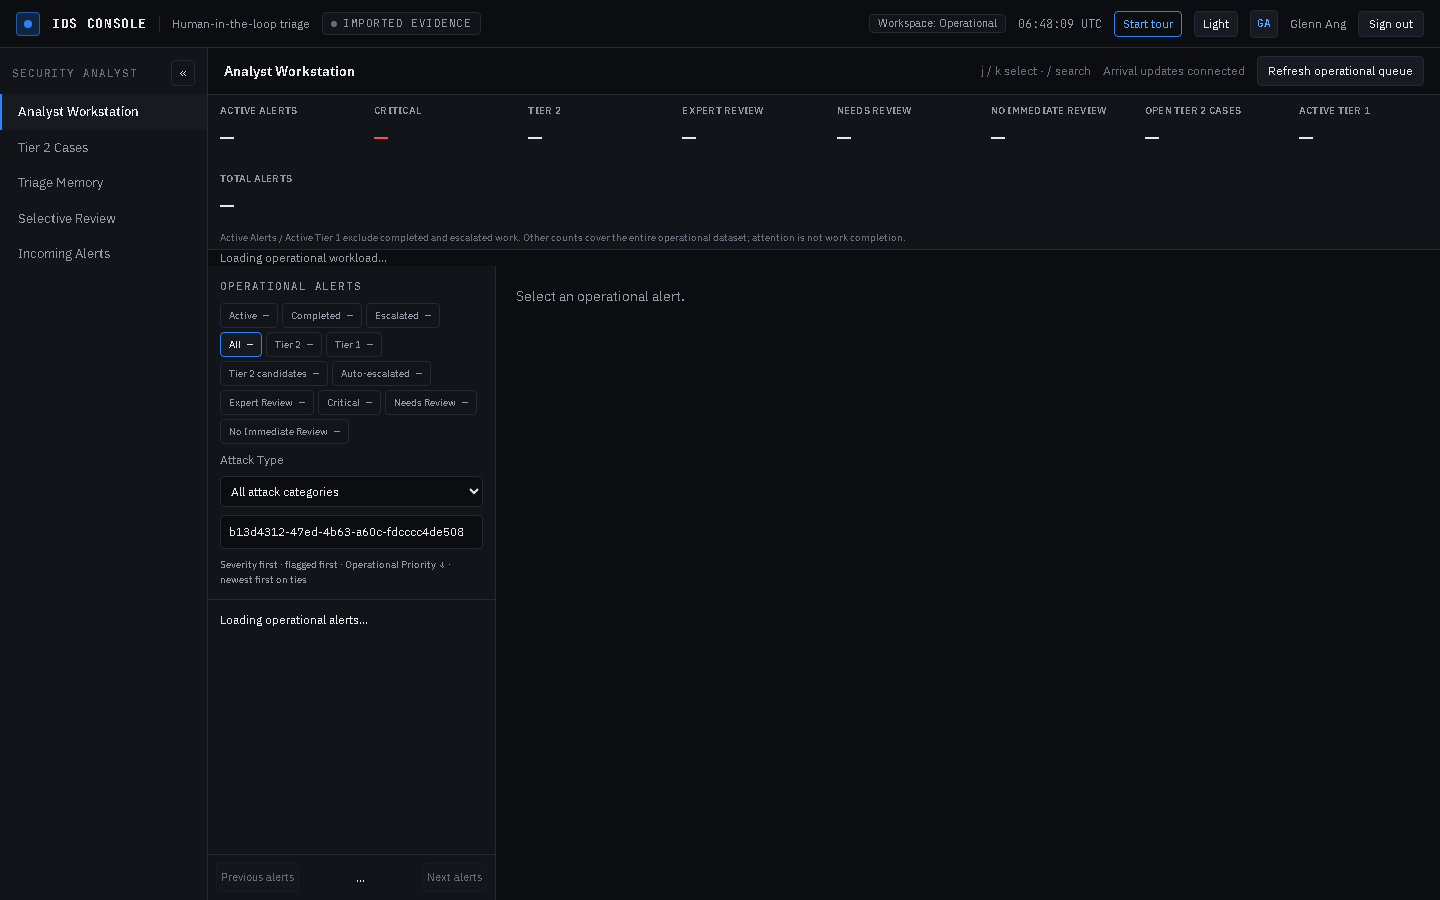
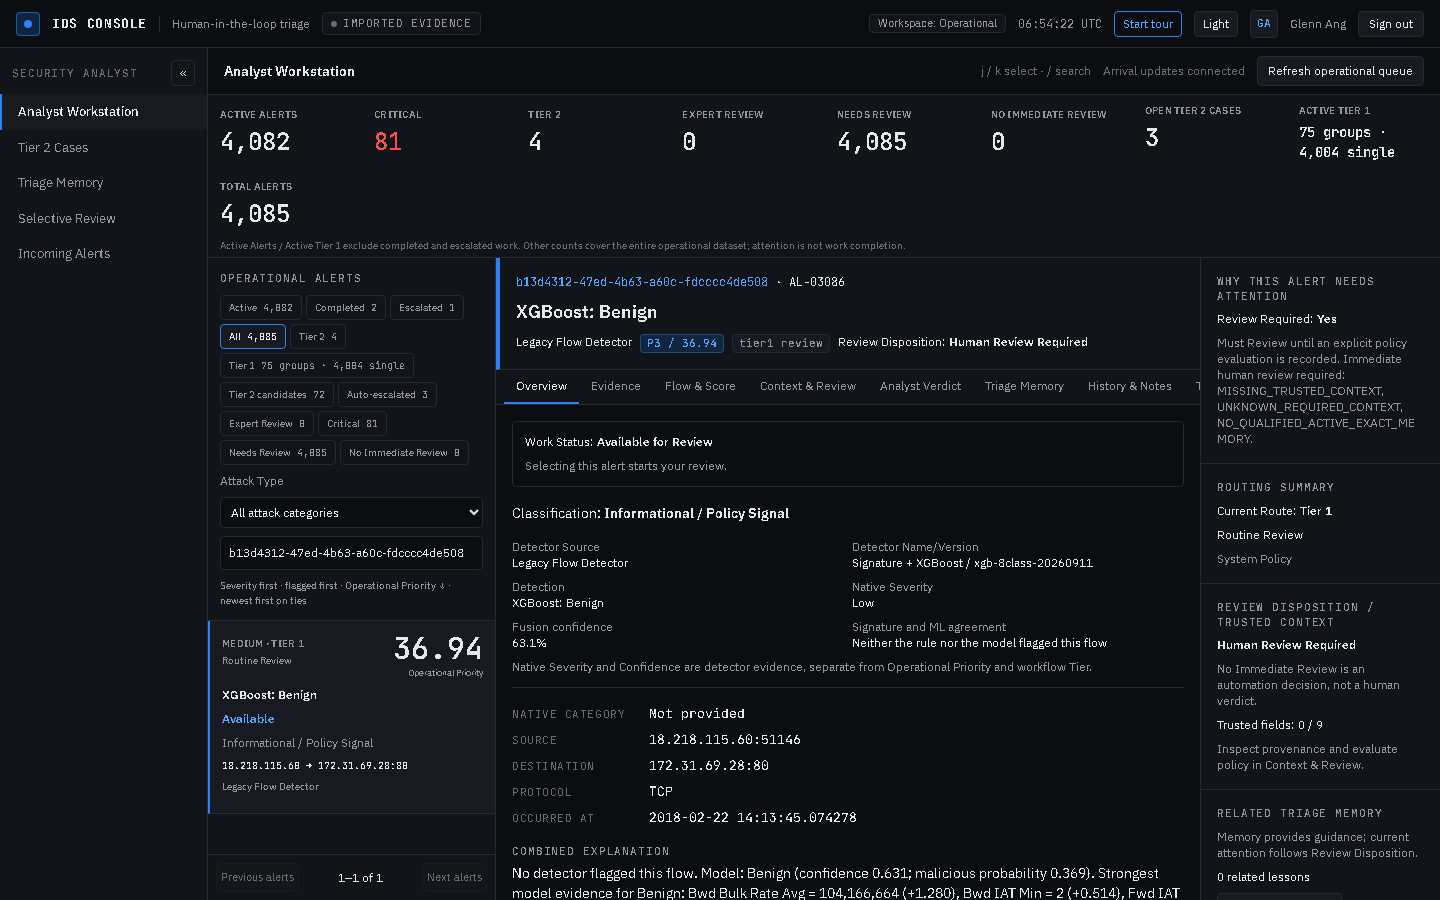
data-trace: wait for rows and panels before each screenshot; re-captured trace (D0 now shows the stored claim)

diff --git a/hitl-ids/apps/web/e2e/data-trace.spec.ts b/hitl-ids/apps/web/e2e/data-trace.spec.ts
@@ -33,6 +33,9 @@ test("data-flow trace: one real record per decision-tree branch", async ({ page 
                       run: () => Promise<void>, subject?: Locator) {
     const before = await state(p.ref);
     await run();
+    // Let panels finish loading so the picture matches the stored state (soft: a panel that keeps a
+    // "Loading" line must not fail the trace).
+    await expect(page.getByText(/^Loading\b|^—$/).first()).toBeHidden({ timeout: 10_000 }).catch(() => {});
     if (subject) await subject.scrollIntoViewIfNeeded();
     const shot = `${id}.png`;
     await page.screenshot({ path: `${OUT}/${shot}`, animations: "disabled" });
@@ -113,6 +116,7 @@ test("data-flow trace: one real record per decision-tree branch", async ({ page 
   paths.push(C);
   await step(C, "C0", "Detected and routed as a Tier 2 candidate", "System", "Detection -> group of 1 -> routing", async () => {
     await page.goto(`/analyst/operations?view=all&q=${C.ref}`);
+    await expect(page.getByRole("list", { name: "Operational alerts" }).locator(`button[data-alert-ref="${C.ref}"]`)).toBeVisible();
   });
   await step(C, "C1", "Analyst opens the alert (claims it)", "Tier 1 analyst", "Row click = claim", async () => {
     await page.getByRole("list", { name: "Operational alerts" }).locator(`button[data-alert-ref="${C.ref}"]`).click();
@@ -147,6 +151,7 @@ test("data-flow trace: one real record per decision-tree branch", async ({ page 
   paths.push(E);
   await step(E, "E0", "Not flagged; kept as a single bottom-band item", "System", "Detection -> no group -> routing", async () => {
     await page.goto(`/analyst/operations?view=all&q=${E.ref}`);
+    await expect(page.getByRole("list", { name: "Operational alerts" }).locator(`button[data-alert-ref="${E.ref}"]`)).toBeVisible();
   });
   await step(E, "E1", "Analyst searches and opens it (claims it)", "Tier 1 analyst", "Search by reference, row click = claim", async () => {
     await page.getByRole("list", { name: "Operational alerts" }).locator(`button[data-alert-ref="${E.ref}"]`).click();
